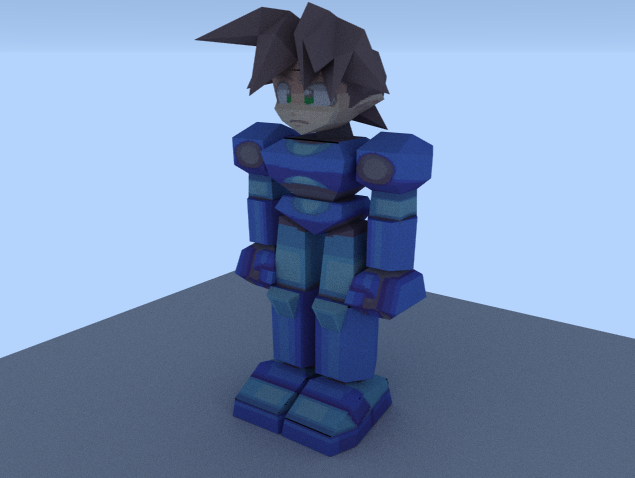
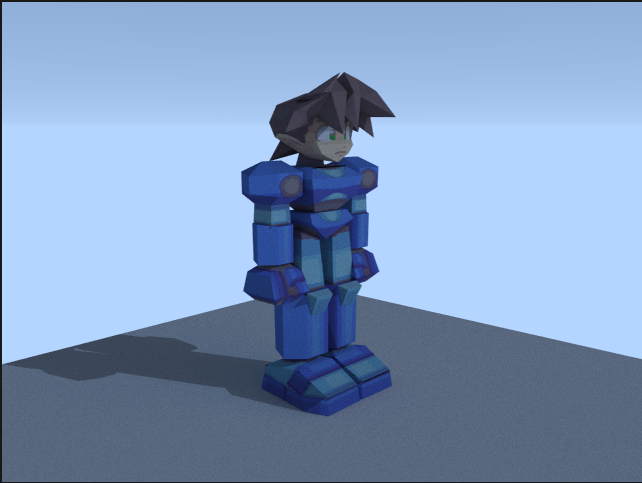
add lightDir param in ray tracing

Changed region(s): [[0.0, 0.0, 1.0, 1.0]]

diff --git a/src/Camera/rayTrace.js b/src/Camera/rayTrace.js
@@ -1,5 +1,6 @@
 import Color from "../Color/Color.js";
 import Triangle from "../Geometry/Triangle.js";
+import { Vec3 } from "../Vector/Vector.js";
 import Ray from "../Ray/Ray.js";
 import { randomPointInSphere } from "../Utils/Math.js";
 import { getBiLinearTexColor, getDefaultTexColor, getTexColor } from "./common.js";
@@ -19,7 +20,18 @@ export function renderBackground(ray, backgroundImage) {
 
 
 export function rayTrace(ray, scene, params = {}) {
-    let { samplesPerPxl, bounces, variance, gamma, bilinearTexture, isBiased, renderSkyBox, useCache, useMetro } = params;
+    let {
+        samplesPerPxl,
+        bounces,
+        variance,
+        gamma,
+        bilinearTexture,
+        isBiased,
+        renderSkyBox,
+        lightDir,
+        useCache,
+        useMetro
+    } = params;
     bounces = bounces ?? 10;
     variance = variance ?? 0.001;
     samplesPerPxl = samplesPerPxl ?? 1;
@@ -29,6 +41,12 @@ export function rayTrace(ray, scene, params = {}) {
     renderSkyBox = renderSkyBox ?? (() => Color.BLACK);
     useCache = useCache ?? false;
     useMetro = useMetro ?? false;
+    // if lightDir is array, convert to Vec3
+    if (lightDir && Array.isArray(lightDir)) {
+        lightDir = Vec3(...lightDir);
+    }
+    lightDir = lightDir ?? undefined;
+
     const invSamples = (isBiased ? bounces : 1) / samplesPerPxl
     let c = Color.BLACK;
     for (let i = 0; i < samplesPerPxl; i++) {
@@ -37,18 +55,37 @@ export function rayTrace(ray, scene, params = {}) {
         const r = Ray(ray.init, ray.dir.add(epsilonOrtho).normalize());
         c = c.add(
             useMetro ?
-                traceMetro(r, scene, { bounces, bilinearTexture, renderSkyBox, useCache }) :
-                trace(r, scene, { bounces, bilinearTexture, renderSkyBox, useCache })
+                traceMetro(r, scene, { bounces, bilinearTexture, renderSkyBox, lightDir, useCache }) :
+                trace(r, scene, { bounces, bilinearTexture, renderSkyBox, lightDir, useCache })
         );
     }
     return c.scale(invSamples).toGamma(gamma);
 }
 
+function renderMissScene(ray, { renderSkyBox, lightDir, scene, power: lightSharpness = 200 }) {
+    const skyColor = renderSkyBox ? renderSkyBox(ray) : Color.BLACK;
+    if (!lightDir) return skyColor;
+
+    const hit = scene.interceptWithRay(Ray(ray.init, lightDir));
+    if (hit) return Color.lerp(skyColor, Color.BLACK, 0.5); // in shadow
+
+    // 1. Clamp to 0 so we don't get artifacts behind the camera
+    const dot = Math.max(0, lightDir.dot(ray.dir));
+
+    // 2. Use a high exponent for the sharp sun disk
+    // At dot = 0, sunIntensity is 0. No "if" needed.
+    const sunIntensity = Math.pow(dot, lightSharpness);
+
+    // 3. Smooth Interpolation (Lerp)
+    // Instead of adding and scaling by 0.5, we transition between the two.
+    return Color.lerp(skyColor, Color.WHITE, sunIntensity);
+}
+
 export function trace(ray, scene, options) {
-    const { bounces, bilinearTexture, renderSkyBox, useCache } = options;
-    if (bounces < 0) return renderSkyBox(ray);
+    const { bounces, bilinearTexture, renderSkyBox, lightDir, useCache } = options;
+    if (bounces < 0) return renderMissScene(ray, { renderSkyBox, lightDir, scene });
     const hit = scene.interceptWithRay(ray);
-    if (!hit) return renderSkyBox(ray);
+    if (!hit) return renderMissScene(ray, { renderSkyBox, lightDir, scene });
     const [, p, e] = hit;
     if (useCache) {
         const cachedColor = cache.get(p);
@@ -65,7 +102,7 @@ export function trace(ray, scene, options) {
     let scatterColor = trace(
         scatterRay,
         scene,
-        { bounces: bounces - 1, bilinearTexture, renderSkyBox }
+        { bounces: bounces - 1, bilinearTexture, renderSkyBox, lightDir, useCache }
     );
     const attenuation = Math.abs(e.normalToPoint(p).dot(scatterRay.dir));
     const finalColor = albedo.mul(scatterColor).scale(attenuation)
@@ -74,10 +111,10 @@ export function trace(ray, scene, options) {
 }
 
 export function traceMetro(ray, scene, options) {
-    const { bounces, bilinearTexture, renderSkyBox, useCache } = options;
-    if (bounces < 0) return renderSkyBox(ray);
+    const { bounces, bilinearTexture, renderSkyBox, lightDir, useCache } = options;
+    if (bounces < 0) return renderMissScene(ray, { renderSkyBox, lightDir, scene });
     const hit = scene.interceptWithRay(ray);
-    if (!hit) return renderSkyBox(ray);
+    if (!hit) return renderMissScene(ray, { renderSkyBox, lightDir, scene });
     const [, p, e] = hit;
     if (useCache) {
         const cachedColor = cache.get(p);
@@ -97,12 +134,12 @@ export function traceMetro(ray, scene, options) {
     let scatterColor = trace(
         scatterRay,
         scene,
-        { bounces: bounces - 1, bilinearTexture, renderSkyBox }
+        { bounces: bounces - 1, bilinearTexture, renderSkyBox, lightDir, useCache }
     );
     let scatterColorStar = trace(
         scatterRayStar,
         scene,
-        { bounces: bounces - 1, bilinearTexture, renderSkyBox }
+        { bounces: bounces - 1, bilinearTexture, renderSkyBox, lightDir, useCache }
     );
     const probM = scatterColorStar.toGray().red / scatterColor.toGray().red;
     if (Math.random() < probM) {

diff --git a/src/Camera/Camera.js b/src/Camera/Camera.js
@@ -1,4 +1,4 @@
-import Vec, { Vec2, Vec3 } from "../Vector/Vector.js"
+import Vec, { Vec2, Vec3, Vector3 } from "../Vector/Vector.js"
 import Ray from "../Ray/Ray.js";
 import { rayTrace } from "./rayTrace.js";
 import { rasterGraphics } from "./raster.js";
@@ -145,6 +145,9 @@ export default class Camera {
     let serializeParams = { ...params }
     if (params?.renderSkyBox && typeof params.renderSkyBox === 'function') {
       serializeParams.renderSkyBox = params.renderSkyBox.toString();
+    }
+    if(params?.lightDir instanceof Vector3) {
+      serializeParams.lightDir = params.lightDir.toArray();
     }
     return {
       to: canvas => {

diff --git a/test/web/megaman_sky.js b/test/web/megaman_sky.js
@@ -88,15 +88,20 @@ async (canvas, logger) => {
         return skyColor.add(sunEffect);
     }
 
+
+    const lightDir = Vec3(0.7, 0.3, 0.5).normalize();
     loop(async ({ dt }) => {
         const image = await camera
             .parallelShot(
                 scene,
                 {
                     bounces: 10,
+                    samplesPerPxl: 1,
                     gamma: 0.5,
                     isBiased: false,
-                    renderSkyBox
+                    renderSkyBox,
+                    lightDir,
+                    lightSharpness: 200
                 })
             .to(exposedCanvas);
         image.paint();

diff --git a/test/web/meshes_sky.js b/test/web/meshes_sky.js
@@ -135,6 +135,7 @@ async (canvas, logger) => {
         return skyColor.add(sunEffect);
     }
 
+    const lightDir = Vec3(0.7, 0.3, 0.5).normalize();
     loop(async ({ dt }) => {
         const image = await camera
             .parallelShot(
@@ -143,7 +144,9 @@ async (canvas, logger) => {
                     bounces: 10,
                     gamma: 0.5,
                     isBiased: false,
-                    renderSkyBox
+                    renderSkyBox,
+                    lightDir,
+                    lightSharpness: 200,
                 })
             .to(exposedCanvas);
         image.paint();

diff --git a/src/Vector/Vector.js b/src/Vector/Vector.js
@@ -183,7 +183,7 @@ export class VectorException extends Error { }
 export function Vec3(x = 0, y = 0, z = 0) { return new Vector3(x, y, z); }
 export function Vec2(x = 0, y = 0) { return new Vector2(x, y); }
 
-class Vector3 {
+export class Vector3 {
   constructor(x = 0, y = 0, z = 0) {
     this.x = x;
     this.y = y;
@@ -334,7 +334,7 @@ class Vector3 {
   static ONES = new Vector3(1, 1, 1);
 }
 
-class Vector2 {
+export class Vector2 {
   constructor(x = 0, y = 0) {
     this.x = x;
     this.y = y;

diff --git a/src/Color/Color.js b/src/Color/Color.js
@@ -121,6 +121,10 @@ export default class Color {
     return Color.ofRGB(r(), r(), r());
   }
 
+  static lerp(c1, c2, t) {
+    return c1.scale(1 - t).add(c2.scale(t));
+  }
+
   static BLACK = Color.ofRGB(0, 0, 0);
   static BLUE = Color.ofRGB(0, 0, 1);
   static GREEN = Color.ofRGB(0, 1, 0);
